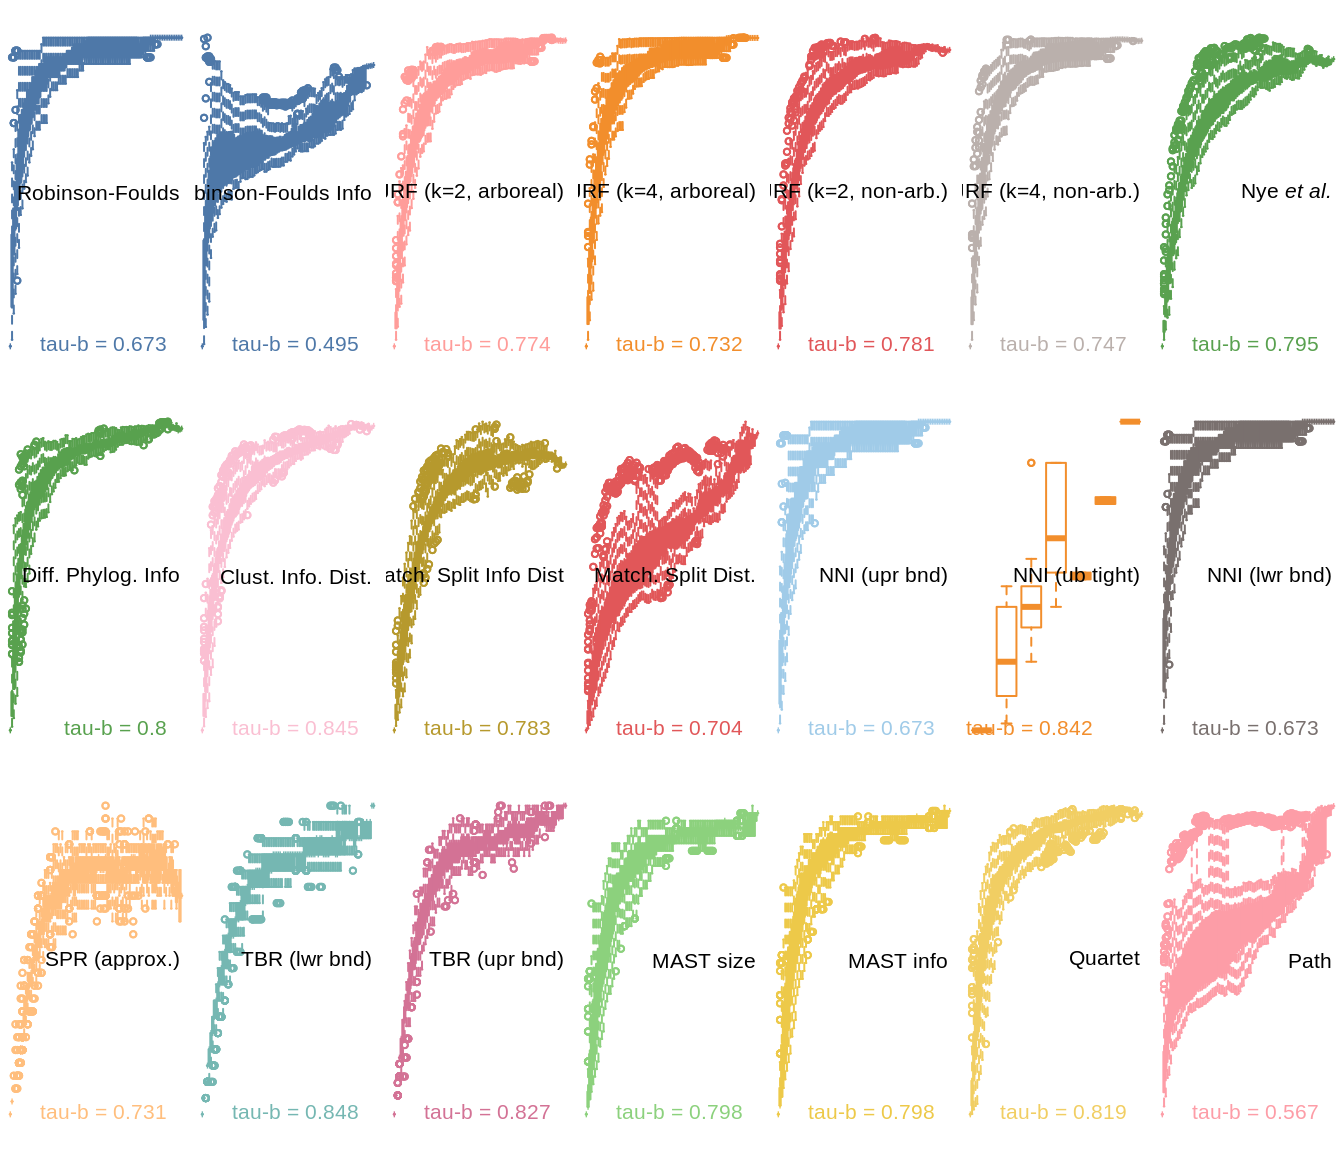
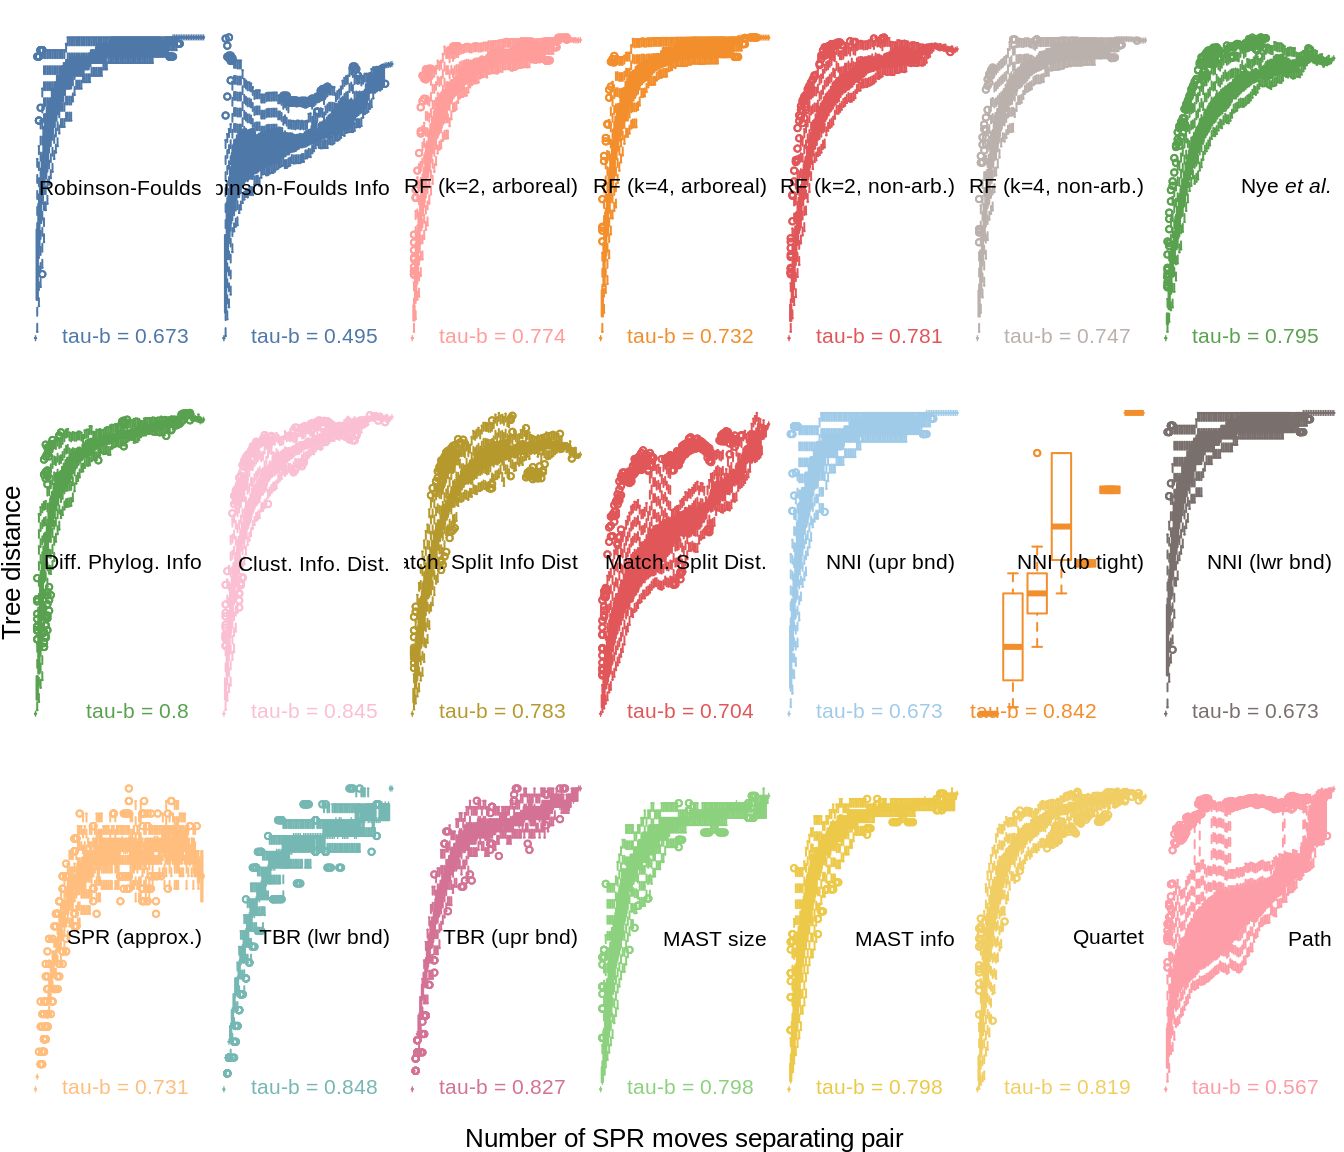
Built site for TreeDistData: 0.0.0.9008@cb787ff

diff --git a/articles/09-expected-similarity.html b/articles/09-expected-similarity.html
@@ -5,12 +5,12 @@
 <meta charset="utf-8">
 <meta http-equiv="X-UA-Compatible" content="IE=edge">
 <meta name="viewport" content="width=device-width, initial-scale=1.0">
-<title>09. Expected values for tree distance metrics • TreeDistData</title>
+<title>2.2: Context tree distance values • TreeDistData</title>
 <!-- jquery --><script src="https://cdnjs.cloudflare.com/ajax/libs/jquery/3.3.1/jquery.min.js" integrity="sha256-FgpCb/KJQlLNfOu91ta32o/NMZxltwRo8QtmkMRdAu8=" crossorigin="anonymous"></script><!-- Bootstrap --><link rel="stylesheet" href="https://cdnjs.cloudflare.com/ajax/libs/twitter-bootstrap/3.3.7/css/bootstrap.min.css" integrity="sha256-916EbMg70RQy9LHiGkXzG8hSg9EdNy97GazNG/aiY1w=" crossorigin="anonymous">
 <script src="https://cdnjs.cloudflare.com/ajax/libs/twitter-bootstrap/3.3.7/js/bootstrap.min.js" integrity="sha256-U5ZEeKfGNOja007MMD3YBI0A3OSZOQbeG6z2f2Y0hu8=" crossorigin="anonymous"></script><!-- Font Awesome icons --><link rel="stylesheet" href="https://cdnjs.cloudflare.com/ajax/libs/font-awesome/5.7.1/css/all.min.css" integrity="sha256-nAmazAk6vS34Xqo0BSrTb+abbtFlgsFK7NKSi6o7Y78=" crossorigin="anonymous">
 <link rel="stylesheet" href="https://cdnjs.cloudflare.com/ajax/libs/font-awesome/5.7.1/css/v4-shims.min.css" integrity="sha256-6qHlizsOWFskGlwVOKuns+D1nB6ssZrHQrNj1wGplHc=" crossorigin="anonymous">
 <!-- clipboard.js --><script src="https://cdnjs.cloudflare.com/ajax/libs/clipboard.js/2.0.4/clipboard.min.js" integrity="sha256-FiZwavyI2V6+EXO1U+xzLG3IKldpiTFf3153ea9zikQ=" crossorigin="anonymous"></script><!-- headroom.js --><script src="https://cdnjs.cloudflare.com/ajax/libs/headroom/0.9.4/headroom.min.js" integrity="sha256-DJFC1kqIhelURkuza0AvYal5RxMtpzLjFhsnVIeuk+U=" crossorigin="anonymous"></script><script src="https://cdnjs.cloudflare.com/ajax/libs/headroom/0.9.4/jQuery.headroom.min.js" integrity="sha256-ZX/yNShbjqsohH1k95liqY9Gd8uOiE1S4vZc+9KQ1K4=" crossorigin="anonymous"></script><!-- pkgdown --><link href="../pkgdown.css" rel="stylesheet">
-<script src="../pkgdown.js"></script><meta property="og:title" content="09. Expected values for tree distance metrics">
+<script src="../pkgdown.js"></script><meta property="og:title" content="2.2: Context tree distance values">
 <meta property="og:description" content="">
 <meta name="twitter:card" content="summary">
 <!-- mathjax --><script src="https://cdnjs.cloudflare.com/ajax/libs/mathjax/2.7.5/MathJax.js" integrity="sha256-nvJJv9wWKEm88qvoQl9ekL2J+k/RWIsaSScxxlsrv8k=" crossorigin="anonymous"></script><script src="https://cdnjs.cloudflare.com/ajax/libs/mathjax/2.7.5/config/TeX-AMS-MML_HTMLorMML.js" integrity="sha256-84DKXVJXs0/F8OTMzX4UR909+jtl4G7SPypPavF+GfA=" crossorigin="anonymous"></script><!--[if lt IE 9]>
@@ -78,7 +78,7 @@
       <a href="../articles/08-spr-walking.html">1.9: Artificial tree rearrangement</a>
     </li>
     <li>
-      <a href="../articles/09-expected-similarity.html">09. Expected values for tree distance metrics</a>
+      <a href="../articles/09-expected-similarity.html">2.2: Context tree distance values</a>
     </li>
     <li>
       <a href="../articles/10-timing.html">10. Timing benchmarks</a>
@@ -115,7 +115,7 @@
       </header><div class="row">
   <div class="col-md-9 contents">
     <div class="page-header toc-ignore">
-      <h1>09. Expected values for tree distance metrics</h1>
+      <h1>2.2: Context tree distance values</h1>
                         <h4 class="author">Martin R. Smith</h4>
             
             <h4 class="date">2020-03-03</h4>
@@ -131,9 +131,9 @@
 <h2 class="hasAnchor">
 <a href="#expected-values-for-random-trees" class="anchor"></a>Expected values for random trees</h2>
 <p>Context for tree distances can be provided by comparison with the distance expected for a pair of random trees.</p>
-<p>The figure below shows how the median normalized tree distance varies with the number of leaves in the trees being compared. 1 000 random pairs of <em>n</em>-leaf trees were generated for <span class="math inline">\(4 \leq n \leq 200\)</span>, and the distances between them calculated. Shaded envelopes denote the interdecile and interquartile ranges. The raw data are available in the data object <code>randomTreeDistances</code>.</p>
+<p>The figure below shows how the median normalized tree distance varies with the number of leaves in the trees being compared. 1 000 random pairs of <em>n</em>-leaf trees were generated for <span class="math inline">\(4 \leq n \leq 200\)</span>, and the distances between them calculated. Shaded envelopes denote the interdecile and interquartile ranges. The raw data are available in the data object <a href="../reference/randomTreeDistances.html"><code>randomTreeDistances</code></a>.</p>
 <p><img src="09-expected-similarity_files/figure-html/Tree-distance-averages-1.png" width="576" style="display: block; margin: auto;"></p>
-<p>Information-based metrics are normalized against the total information content of each pair of trees. The (Jaccard-)Robinson-Foulds, Nye <em>et al.</em>, maximum agreement subtree and Quartet metrics are normalized based on the maximum possible value. The SPR distance is normalized against <em>n</em> / 2; this value lies between the definitive bounds of the maximum diameter of the SPR distance <span class="citation">(Allen &amp; Steel, 2001)</span>, and was not exceeded by any of the random tree pairs. The TBR distance is normalized against <em>n</em>. The path, Matching Split Distance and NNI metrics do not have a readily calculated maximum value and are thus crudely ‘normalized’ against an approximate maximum, estimated by fitting a polynomial to the the maximum observed distance for each number of leaves. Candidate polynomial functions were evaluated based on the Akaike and Bayesian information criteria.</p>
+<p>Information-based metrics are normalized against the total information content of each pair of trees. The (Jaccard-)Robinson-Foulds, Nye <em>et al.</em>, maximum agreement subtree and Quartet metrics are normalized based on the maximum possible value. The SPR distance is normalized against <em>n</em> / 2; this value lies between the definitive bounds of the maximum diameter of the SPR distance <span class="citation">[@Allen2001]</span>, and was not exceeded by any of the random tree pairs. The TBR distance is normalized against <em>n</em>. The path, Matching Split Distance and NNI metrics do not have a readily calculated maximum value and are thus crudely ‘normalized’ against an approximate maximum, estimated by fitting a polynomial to the the maximum observed distance for each number of leaves. Candidate polynomial functions were evaluated based on the Akaike and Bayesian information criteria.</p>
 <p>Note that the path and Matching Splits distances exhibit a prominently larger variability than other metrics, suggesting that they are less consistent in the score that they assign to a random pair of trees. In combination with the difficulty in calculating the range of these metrics, this makes their absolute value difficult to interpret.</p>
 </div>
 <div id="ranges" class="section level2">
@@ -183,7 +183,8 @@
 <td align="right">2.1</td>
 </tr>
 <tr class="even">
-<td>paste(plain(“Nye”), italic(“et al.”))</td>
+<td>Nye <em>et al.</em>
+</td>
 <td align="right">1.9</td>
 </tr>
 <tr class="odd">
@@ -229,14 +230,9 @@
 </tbody>
 </table>
 </div>
-<div id="references" class="section level2 unnumbered">
+<div id="references" class="section level2">
 <h2 class="hasAnchor">
 <a href="#references" class="anchor"></a>References</h2>
-<div id="refs" class="references">
-<div id="ref-Allen2001">
-<p>Allen, B. L., &amp; Steel, M. A. (2001). Subtree transfer operations and their induced metrics on evolutionary trees. <em>Annals of Combinatorics</em>, <em>5</em>(1), 1–15. doi: <a href="https://doi.org/10.1007/s00026-001-8006-8">10.1007/s00026-001-8006-8</a></p>
-</div>
-</div>
 </div>
   </div>
 

diff --git a/articles/10-timing.html b/articles/10-timing.html
@@ -78,7 +78,7 @@
       <a href="../articles/08-spr-walking.html">1.9: Artificial tree rearrangement</a>
     </li>
     <li>
-      <a href="../articles/09-expected-similarity.html">09. Expected values for tree distance metrics</a>
+      <a href="../articles/09-expected-similarity.html">2.2: Context tree distance values</a>
     </li>
     <li>
       <a href="../articles/10-timing.html">10. Timing benchmarks</a>
@@ -147,23 +147,23 @@
 </tr>
 <tr class="even">
 <td>Robinson-Foulds</td>
-<td align="right">9.8</td>
+<td align="right">9.9</td>
 <td align="right">13</td>
 </tr>
 <tr class="odd">
 <td>Match. Split Dist.</td>
-<td align="right">15.0</td>
-<td align="right">45</td>
+<td align="right">16.0</td>
+<td align="right">46</td>
 </tr>
 <tr class="even">
 <td>Diff. Phylog. Info</td>
 <td align="right">21.0</td>
-<td align="right">83</td>
+<td align="right">84</td>
 </tr>
 <tr class="odd">
 <td>Nye et al.</td>
-<td align="right">23.0</td>
-<td align="right">130</td>
+<td align="right">24.0</td>
+<td align="right">140</td>
 </tr>
 <tr class="even">
 <td>Match. Split Info Dist</td>
@@ -178,51 +178,51 @@
 <tr class="even">
 <td>JRF (k=2, non-arb.)</td>
 <td align="right">28.0</td>
-<td align="right">170</td>
+<td align="right">180</td>
+</tr>
+<tr class="odd">
+<td>Robinson-Foulds Info</td>
+<td align="right">44.0</td>
+<td align="right">130</td>
+</tr>
+<tr class="even">
+<td>JRF (k=4, arboreal)</td>
+<td align="right">44.0</td>
+<td align="right">550</td>
 </tr>
 <tr class="odd">
 <td>Clust. Info. Dist.</td>
-<td align="right">43.0</td>
-<td align="right">260</td>
-</tr>
-<tr class="even">
-<td>Robinson-Foulds Info</td>
-<td align="right">43.0</td>
-<td align="right">130</td>
-</tr>
-<tr class="odd">
-<td>JRF (k=4, arboreal)</td>
-<td align="right">43.0</td>
-<td align="right">550</td>
+<td align="right">45.0</td>
+<td align="right">270</td>
 </tr>
 <tr class="even">
 <td>NNI (approx.)</td>
 <td align="right">57.0</td>
-<td align="right">82</td>
+<td align="right">85</td>
 </tr>
 <tr class="odd">
 <td>JRF (k=4, non-arb.)</td>
-<td align="right">61.0</td>
-<td align="right">880</td>
+<td align="right">63.0</td>
+<td align="right">900</td>
 </tr>
 <tr class="even">
 <td>SPR (approx.)</td>
-<td align="right">94.0</td>
+<td align="right">95.0</td>
 <td align="right">790</td>
 </tr>
 <tr class="odd">
 <td>TBR (approx.)</td>
-<td align="right">200.0</td>
-<td align="right">360</td>
+<td align="right">220.0</td>
+<td align="right">370</td>
 </tr>
 <tr class="even">
 <td>Quartet</td>
-<td align="right">240.0</td>
+<td align="right">250.0</td>
 <td align="right">440</td>
 </tr>
 <tr class="odd">
 <td>MAST size</td>
-<td align="right">6300.0</td>
+<td align="right">6700.0</td>
 <td align="right">26000</td>
 </tr>
 </tbody>

diff --git a/articles/X-heterogeneity.html b/articles/X-heterogeneity.html
@@ -78,7 +78,7 @@
       <a href="../articles/08-spr-walking.html">1.9: Artificial tree rearrangement</a>
     </li>
     <li>
-      <a href="../articles/09-expected-similarity.html">09. Expected values for tree distance metrics</a>
+      <a href="../articles/09-expected-similarity.html">2.2: Context tree distance values</a>
     </li>
     <li>
       <a href="../articles/10-timing.html">10. Timing benchmarks</a>
@@ -166,7 +166,7 @@
 <a href="#reference" class="anchor"></a>Reference</h2>
 <div id="refs" class="references">
 <div id="ref-Wiegand2004">
-<p>Wiegand, T., &amp; Moloney, K. A. (2004). Rings, circles, and null-models for point pattern analysis in ecology. <em>Oikos</em>, <em>104</em>(2), 209–229. doi:<a href="https://doi.org/10.1111/j.0030-1299.2004.12497.x">10.1111/j.0030-1299.2004.12497.x</a></p>
+<p>Wiegand, T., &amp; Moloney, K. A. (2004). Rings, circles, and null-models for point pattern analysis in ecology. <em>Oikos</em>, <em>104</em>(2), 209–229. doi: <a href="https://doi.org/10.1111/j.0030-1299.2004.12497.x">10.1111/j.0030-1299.2004.12497.x</a></p>
 </div>
 </div>
 </div>

diff --git a/articles/index.html b/articles/index.html
@@ -114,7 +114,7 @@
       <a href="../articles/08-spr-walking.html">1.9: Artificial tree rearrangement</a>
     </li>
     <li>
-      <a href="../articles/09-expected-similarity.html">09. Expected values for tree distance metrics</a>
+      <a href="../articles/09-expected-similarity.html">2.2: Context tree distance values</a>
     </li>
     <li>
       <a href="../articles/10-timing.html">10. Timing benchmarks</a>
@@ -167,7 +167,7 @@
         <li><a href="06-lin-cluster-recovery.html">1.7: Consistent cluster recovery</a></li>
         <li><a href="07-bullseye.html">1.8: Bullseye tests</a></li>
         <li><a href="08-spr-walking.html">1.9: Artificial tree rearrangement</a></li>
-        <li><a href="09-expected-similarity.html">09. Expected values for tree distance metrics</a></li>
+        <li><a href="09-expected-similarity.html">2.2: Context tree distance values</a></li>
         <li><a href="10-timing.html">10. Timing benchmarks</a></li>
         <li><a href="11-correlation.html">11. Metric correlation</a></li>
         <li><a href="X-heterogeneity.html">Heterogeneity</a></li>

diff --git a/articles/08-spr-walking.html b/articles/08-spr-walking.html
@@ -78,7 +78,7 @@
       <a href="../articles/08-spr-walking.html">1.9: Artificial tree rearrangement</a>
     </li>
     <li>
-      <a href="../articles/09-expected-similarity.html">09. Expected values for tree distance metrics</a>
+      <a href="../articles/09-expected-similarity.html">2.2: Context tree distance values</a>
     </li>
     <li>
       <a href="../articles/10-timing.html">10. Timing benchmarks</a>
@@ -132,8 +132,6 @@
 <h2 class="hasAnchor">
 <a href="#figure" class="anchor"></a>Figure</h2>
 <p><img src="08-spr-walking_files/figure-html/plots-1.png" width="672"></p>
-<p>X axis: Number of SPR moves separating pair in chain</p>
-<p>Y axis: Tree distance</p>
 </div>
 <div id="tabulation" class="section level2">
 <h2 class="hasAnchor">

diff --git a/reference/distanceDistributions.html b/reference/distanceDistributions.html
@@ -118,7 +118,7 @@ uniform distribution using ape::rtree(nTip, br=NULL)." />
       <a href="../articles/08-spr-walking.html">1.9: Artificial tree rearrangement</a>
     </li>
     <li>
-      <a href="../articles/09-expected-similarity.html">09. Expected values for tree distance metrics</a>
+      <a href="../articles/09-expected-similarity.html">2.2: Context tree distance values</a>
     </li>
     <li>
       <a href="../articles/10-timing.html">10. Timing benchmarks</a>

diff --git a/reference/randomTreePairs.html b/reference/randomTreePairs.html
@@ -117,7 +117,7 @@ distribution using ape::rtree(nTip, br = NULL)." />
       <a href="../articles/08-spr-walking.html">1.9: Artificial tree rearrangement</a>
     </li>
     <li>
-      <a href="../articles/09-expected-similarity.html">09. Expected values for tree distance metrics</a>
+      <a href="../articles/09-expected-similarity.html">2.2: Context tree distance values</a>
     </li>
     <li>
       <a href="../articles/10-timing.html">10. Timing benchmarks</a>

diff --git a/reference/randomTreeDistances.html b/reference/randomTreeDistances.html
@@ -118,7 +118,7 @@ ape::rtree(nTip, br=NULL)." />
       <a href="../articles/08-spr-walking.html">1.9: Artificial tree rearrangement</a>
     </li>
     <li>
-      <a href="../articles/09-expected-similarity.html">09. Expected values for tree distance metrics</a>
+      <a href="../articles/09-expected-similarity.html">2.2: Context tree distance values</a>
     </li>
     <li>
       <a href="../articles/10-timing.html">10. Timing benchmarks</a>

diff --git a/reference/bullseye.html b/reference/bullseye.html
@@ -117,7 +117,7 @@ Kuhner and Yamato (2015)." />
       <a href="../articles/08-spr-walking.html">1.9: Artificial tree rearrangement</a>
     </li>
     <li>
-      <a href="../articles/09-expected-similarity.html">09. Expected values for tree distance metrics</a>
+      <a href="../articles/09-expected-similarity.html">2.2: Context tree distance values</a>
     </li>
     <li>
       <a href="../articles/10-timing.html">10. Timing benchmarks</a>

diff --git a/news/index.html b/news/index.html
@@ -114,7 +114,7 @@
       <a href="../articles/08-spr-walking.html">1.9: Artificial tree rearrangement</a>
     </li>
     <li>
-      <a href="../articles/09-expected-similarity.html">09. Expected values for tree distance metrics</a>
+      <a href="../articles/09-expected-similarity.html">2.2: Context tree distance values</a>
     </li>
     <li>
       <a href="../articles/10-timing.html">10. Timing benchmarks</a>

diff --git a/reference/AllDists.html b/reference/AllDists.html
@@ -116,7 +116,7 @@
       <a href="../articles/08-spr-walking.html">1.9: Artificial tree rearrangement</a>
     </li>
     <li>
-      <a href="../articles/09-expected-similarity.html">09. Expected values for tree distance metrics</a>
+      <a href="../articles/09-expected-similarity.html">2.2: Context tree distance values</a>
     </li>
     <li>
       <a href="../articles/10-timing.html">10. Timing benchmarks</a>

diff --git a/reference/CompareAllTrees.html b/reference/CompareAllTrees.html
@@ -116,7 +116,7 @@
       <a href="../articles/08-spr-walking.html">1.9: Artificial tree rearrangement</a>
     </li>
     <li>
-      <a href="../articles/09-expected-similarity.html">09. Expected values for tree distance metrics</a>
+      <a href="../articles/09-expected-similarity.html">2.2: Context tree distance values</a>
     </li>
     <li>
       <a href="../articles/10-timing.html">10. Timing benchmarks</a>
